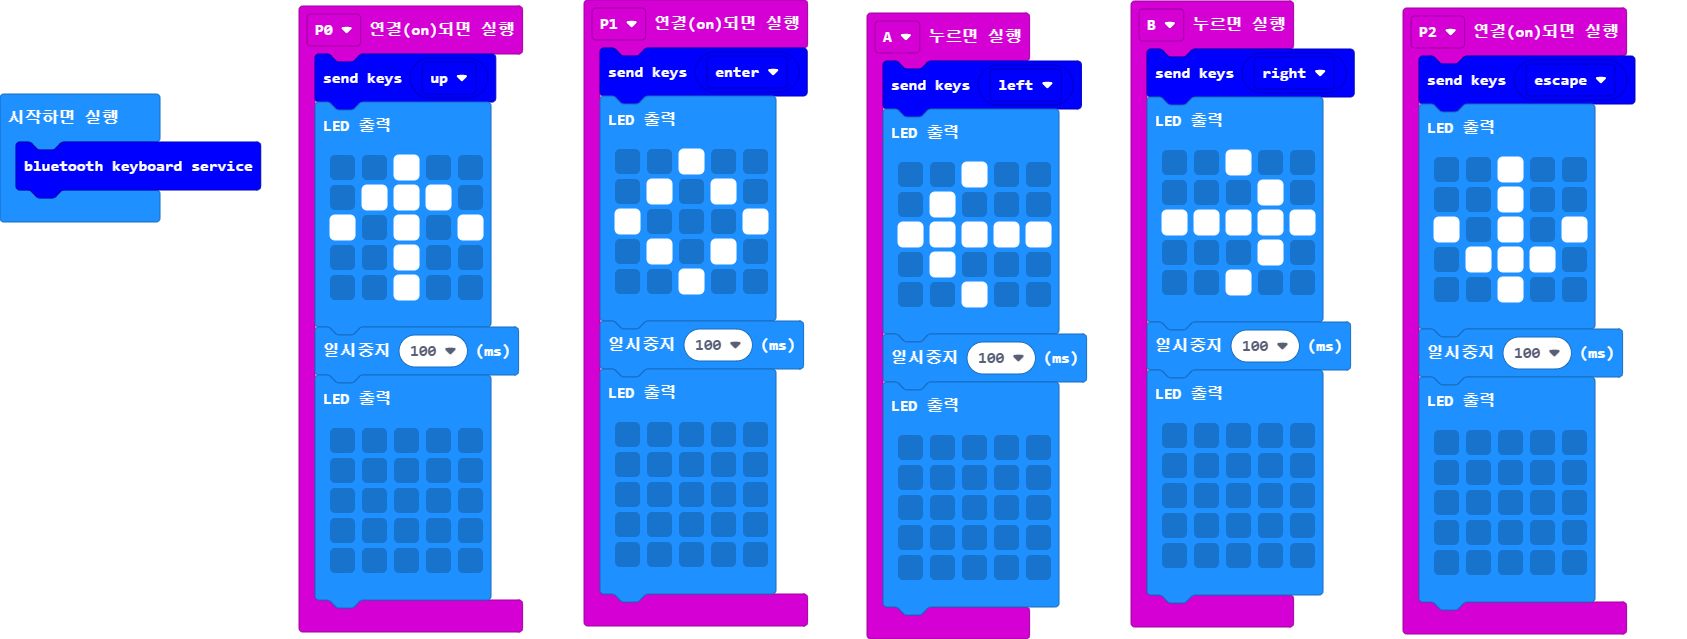
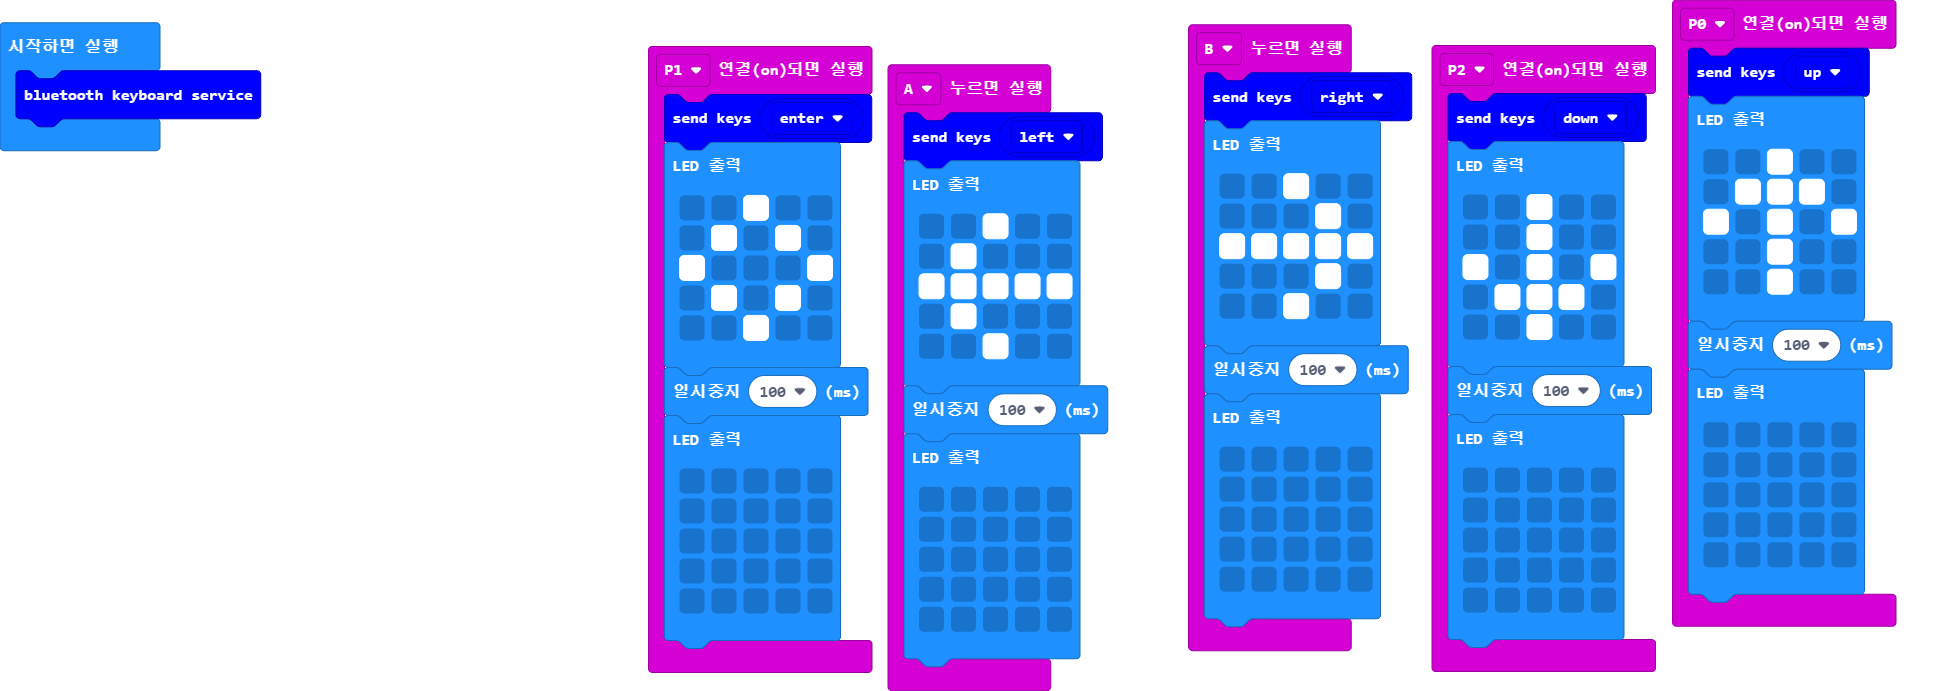
main.blocks, main.ts 업데이트하기

diff --git a/main.ts b/main.ts
@@ -35,7 +35,7 @@ input.onButtonPressed(Button.A, function () {
         `)
 })
 input.onPinPressed(TouchPin.P2, function () {
-    keyboard.sendString(keyboard.keys(keyboard._Key.escape))
+    keyboard.sendString(keyboard.keys(keyboard._Key.down))
     basic.showLeds(`
         . . # . .
         . . # . .
